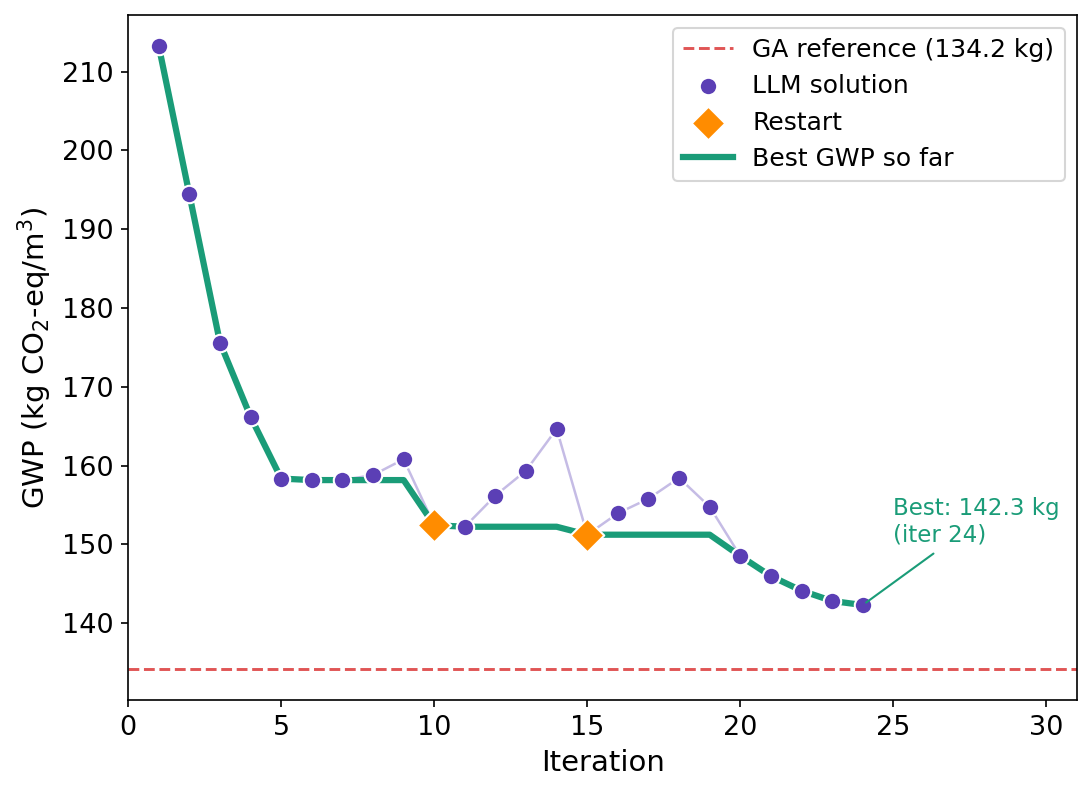
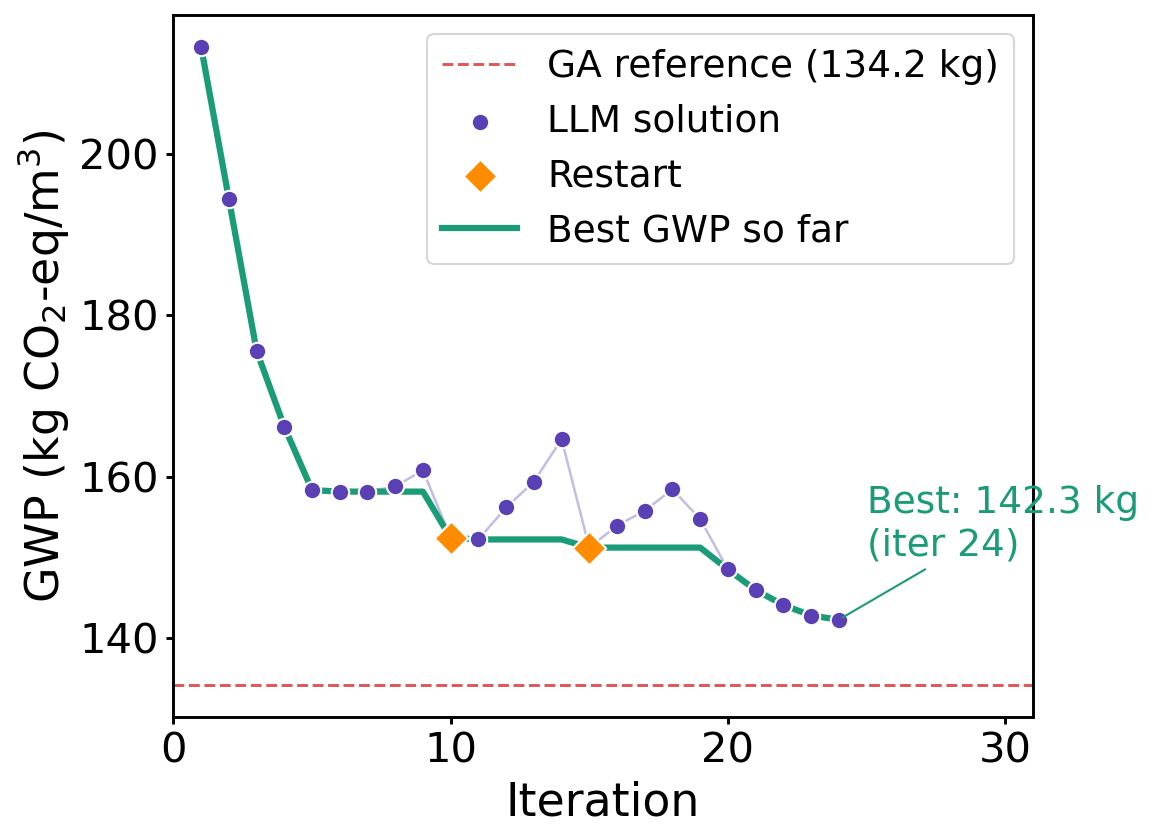
Enlarge figure fonts and unify panel sizes (reviewer 3, comment 5)

diff --git a/utils/make_figures.py b/utils/make_figures.py
@@ -28,9 +28,10 @@ RES = os.path.join(ROOT, "results")
 OUT = os.path.join(ROOT, "pictures")
 os.makedirs(OUT, exist_ok=True)
 
-plt.rcParams.update({"font.size": 14, "axes.titlesize": 15, "axes.labelsize": 14, "xtick.labelsize": 13,
-                     "ytick.labelsize": 13, "legend.fontsize": 12, "figure.dpi": 150, "axes.spines.top": True,
-                     "axes.spines.right": True})
+plt.rcParams.update({"font.size": 20, "axes.titlesize": 22, "axes.labelsize": 22, "xtick.labelsize": 20,
+                     "ytick.labelsize": 20, "legend.fontsize": 18, "figure.dpi": 150,
+                     "axes.spines.top": True, "axes.spines.right": True, "axes.linewidth": 1.4,
+                     "xtick.major.width": 1.4, "ytick.major.width": 1.4})
 COL = {"baseline": "#2a6f97", "no_knowledge": "#e07a5f", "zero_shot": "#9a8c98", "rag_tabular": "#81b29a",
        "rag_text": "#3d405b", "GA": "#222222"}
 LABEL = {"baseline": "Baseline", "no_knowledge": "No knowledge", "zero_shot": "Zero-shot",
@@ -44,9 +45,9 @@ def load_runs():
 
 def bars(df, methods, title, fname, scenarios_sets):
     """Grouped bars: x = strength floor, one panel per metric, one figure row per durability setting."""
-    metrics = [("OGR", "OGR"), ("gwp_gap", f"GWP gap ({GWP_UNIT})"), ("QER", f"QER ({GWP_UNIT} per call)"),
+    metrics = [("OGR", "OGR"), ("gwp_gap", "GWP gap (kg/m$^3$)"), ("QER", "QER (kg/m$^3$ per call)"),
                ("rcalls", "$R_{calls}$")]
-    fig, axes = plt.subplots(2, 4, figsize=(20, 8.5))
+    fig, axes = plt.subplots(2, 4, figsize=(20, 10.5))
     for r, dur in enumerate([False, True]):
         sub = df[df["durability"] == dur]
         for c, (m, ylabel) in enumerate(metrics):
@@ -64,15 +65,15 @@ def bars(df, methods, title, fname, scenarios_sets):
                 if m == "OGR":
                     for xi, mi, n in zip(x, means, ns):
                         if not np.isnan(mi):
-                            ax.text(xi, mi, f"{n}", ha="center", va="bottom", fontsize=9)
+                            ax.text(xi, mi, f"{n}", ha="center", va="bottom", fontsize=16)
             ax.set_xticks(range(3))
             ax.set_xticklabels(["45", "50", "55"])
-            ax.set_xlabel("28-day strength floor (MPa)")
+            ax.set_xlabel("Strength floor (MPa)")
             ax.set_ylabel(ylabel)
             if c == 0:
                 ax.set_title(("With" if dur else "Without") + " chloride constraint", loc="left")
     axes[0, 0].legend(frameon=False)
-    fig.suptitle(title + "   (numbers above OGR bars = runs with a feasible solution, of 5)", y=1.0)
+    fig.suptitle(title, y=1.0, fontsize=24)
     fig.tight_layout()
     fig.savefig(os.path.join(OUT, fname), bbox_inches="tight")
     plt.close(fig)
@@ -95,7 +96,7 @@ def trajectory(scn="s50_nodur", method="baseline"):
     b_i = int(np.argmin(g))
     purple, green, orange, red, blue = "#5b3fb5", "#1a9c78", "#ff8c00", "#e05555", "#2f80e0"
 
-    fig, ax = plt.subplots(figsize=(7.5, 5.5))
+    fig, ax = plt.subplots(figsize=(8, 6))
     ax.axhline(ref["gwp"], color=red, ls="--", lw=1.4, label=f"GA reference ({ref['gwp']:.1f} kg)")
     ax.plot(it, g, color=purple, alpha=0.35, lw=1.2, zorder=1)
     ax.scatter(it[~restart], g[~restart], s=70, color=purple, edgecolor="white", zorder=3, label="LLM solution")
@@ -104,7 +105,7 @@ def trajectory(scn="s50_nodur", method="baseline"):
                    label="Restart")
     ax.plot(it, best_so_far, color=green, lw=3, zorder=2, label="Best GWP so far")
     ax.annotate(f"Best: {g[b_i]:.1f} kg\n(iter {it[b_i]})", (it[b_i], g[b_i]), xytext=(it[b_i] + 1, g[b_i] + 8),
-                color=green, fontsize=11, arrowprops=dict(arrowstyle="-", color=green))
+                color=green, fontsize=18, arrowprops=dict(arrowstyle="-", color=green))
     ax.set_xlabel("Iteration")
     ax.set_ylabel(f"GWP ({GWP_UNIT})")
     ax.set_xlim(0, max(31, it.max() + 1))
@@ -113,7 +114,7 @@ def trajectory(scn="s50_nodur", method="baseline"):
     fig.savefig(os.path.join(OUT, "fig3a_gwp_iterations.png"), bbox_inches="tight")
     plt.close(fig)
 
-    fig, ax = plt.subplots(figsize=(7.5, 5.5))
+    fig, ax = plt.subplots(figsize=(8, 6))
     s = t["pred_28day"].values
     ax.axhline(smin, color=red, ls="--", lw=1.4, label="Target strength")
     ax.axhspan(smin - 5, smin, color=red, alpha=0.06)
@@ -131,7 +132,7 @@ def trajectory(scn="s50_nodur", method="baseline"):
 
 
 def durability(df):
-    fig, ax = plt.subplots(figsize=(9, 5.5))
+    fig, ax = plt.subplots(figsize=(10, 6.5))
     xs = np.arange(3)
     for k, (dur, hatch) in enumerate([(False, ""), (True, "//")]):
         ga, llm, llm_sd = [], [], []
@@ -146,7 +147,7 @@ def durability(df):
                label=f"LLM {'with' if dur else 'without'}")
     ax.set_xticks(xs)
     ax.set_xticklabels(["45", "50", "55"])
-    ax.set_xlabel("28-day strength floor (MPa)")
+    ax.set_xlabel("Strength floor (MPa)")
     ax.set_ylabel(f"Best GWP ({GWP_UNIT})")
     ax.legend(frameon=False, ncol=2)
     fig.tight_layout()
@@ -159,7 +160,7 @@ def models():
     if not os.path.exists(f):
         return
     d = pd.read_csv(f)
-    fig, axes = plt.subplots(1, 3, figsize=(18, 5), sharey=True)
+    fig, axes = plt.subplots(1, 3, figsize=(18, 6.5), sharey=True)
     setups = [("independent", "Independent"), ("chain_true_input", "Chain, true previous stage"),
               ("chain_pred_input", "Chain, predicted previous stage")]
     mods = ["RandomForest", "XGBoost", "CatBoost", "MLP"]
@@ -172,7 +173,7 @@ def models():
         ax.set_title(age.replace("day", "-day"), loc="left")
         ax.set_ylim(-0.2, 1.0)
     axes[0].set_ylabel("R$^2$ (mean $\\pm$ std, 10 splits)")
-    axes[0].legend(frameon=False, fontsize=11)
+    axes[0].legend(frameon=False, fontsize=16)
     fig.tight_layout()
     fig.savefig(os.path.join(OUT, "fig_models.png"), bbox_inches="tight")
     plt.close(fig)
@@ -184,7 +185,7 @@ def sensitivity():
         return
     d = pd.read_csv(f)
     order = ["GA", "baseline", "no_knowledge", "zero_shot", "rag_tabular", "rag_text"]
-    fig, axes = plt.subplots(1, 3, figsize=(18, 5), sharey=True)
+    fig, axes = plt.subplots(1, 3, figsize=(18, 6.5), sharey=True)
     for ax, (col, ttl) in zip(axes, [("p_strength_ok_pred_error", "Strength prediction error ($\\sigma$ = 5.7 MPa)"),
                                      ("p_strength_ok_cv2", "Ingredient variability, CV 2%"),
                                      ("p_strength_ok_cv5", "Ingredient variability, CV 5%")]):
@@ -193,7 +194,7 @@ def sensitivity():
                color=[COL.get(m, "#999") for m in order])
         ax.set_xticks(range(len(order)))
         ax.set_xticklabels(["GA", "Base", "No-K", "Zero", "RAG-T", "RAG-X"])
-        ax.set_title(ttl, loc="left", fontsize=13)
+        ax.set_title(ttl, loc="left", fontsize=17)
     axes[0].set_ylabel("P(strength $\\geq$ floor)")
     fig.tight_layout()
     fig.savefig(os.path.join(OUT, "fig_sensitivity.png"), bbox_inches="tight")
